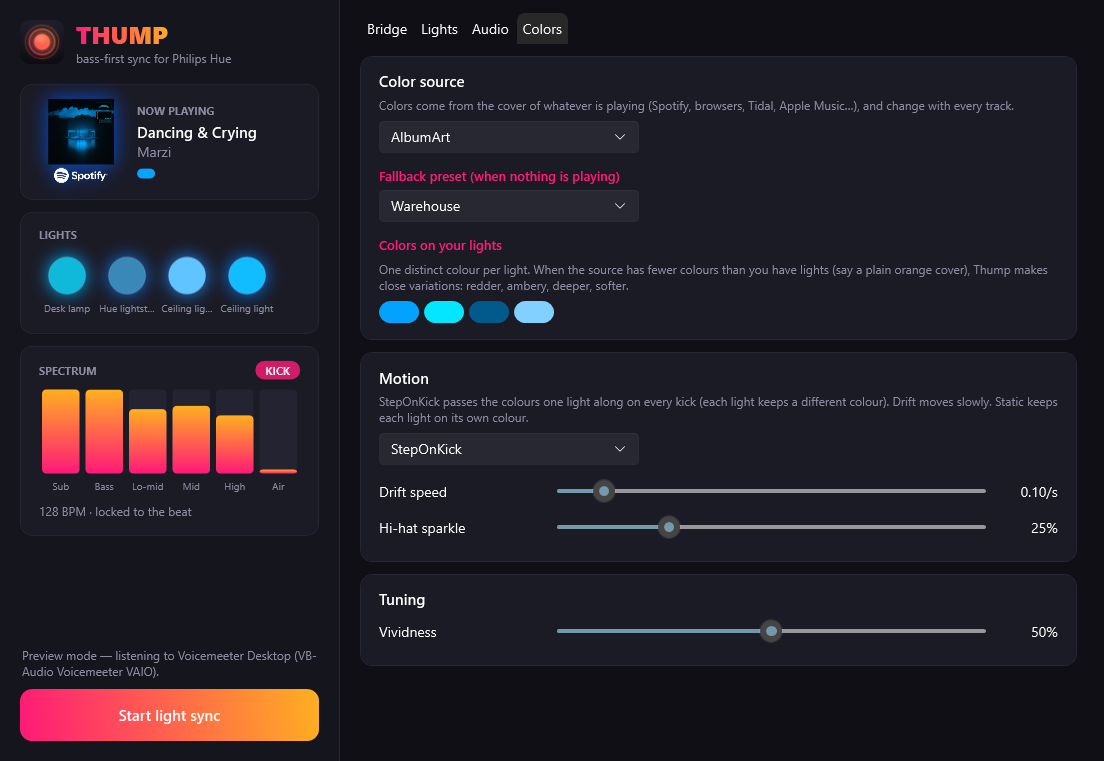
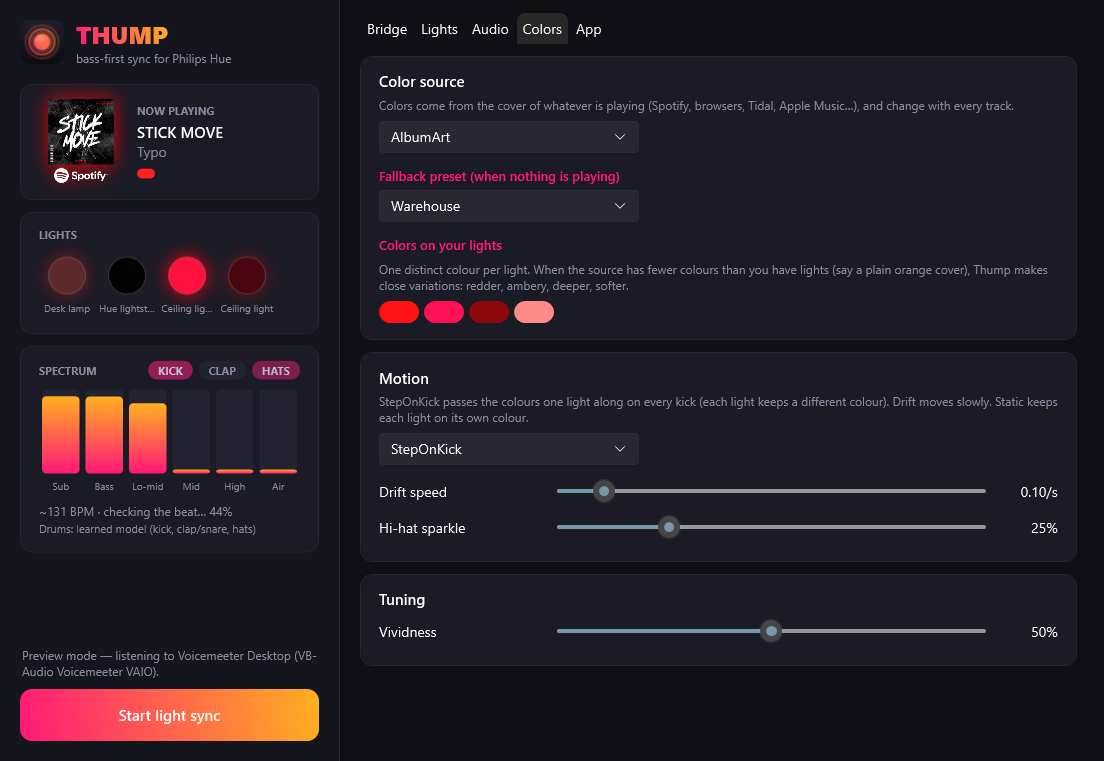
Show the remembered pairing on startup; UI and README screenshot for clap and hats
"2 · Pair" stayed blank after a restart even though the bridge was paired: only
the Pair button set it. Loading the areas at startup now says "Paired with <ip>",
or that the bridge isn't answering. The drum card mentions hats and ~50 ms, the
roles card lists Hats, and the README screenshot shows the KICK, CLAP and HATS LEDs.

diff --git a/src/Thump/MainWindow.xaml b/src/Thump/MainWindow.xaml
@@ -176,6 +176,7 @@
                                     <Run FontWeight="SemiBold" Foreground="White" Text="Bass"/> — sub + bass only, plus kick punch.<LineBreak/>
                                     <Run FontWeight="SemiBold" Foreground="White" Text="Kick"/> — flashes on detected kicks, dark in between.<LineBreak/>
                                     <Run FontWeight="SemiBold" Foreground="White" Text="Clap"/> — flashes on claps and snares, dark in between.<LineBreak/>
+                                    <Run FontWeight="SemiBold" Foreground="White" Text="Hats"/> — a gentle shimmer with the hi-hats over a steady base.<LineBreak/>
                                     <Run FontWeight="SemiBold" Foreground="White" Text="Mids / Highs"/> — synths &amp; vocals / hats &amp; cymbals.<LineBreak/>
                                     <Run FontWeight="SemiBold" Foreground="White" Text="Ambient"/> — steady colour, ignores the music.
                                 </TextBlock>
@@ -222,8 +223,8 @@
                         </Border>
                         <Border Style="{StaticResource Card}">
                             <StackPanel>
-                                <TextBlock Text="Kick, clap and snare" Style="{StaticResource CardTitle}"/>
-                                <TextBlock Style="{StaticResource Hint}" Text="A small learned model, trained on hundreds of songs, picks out kicks, claps or snares, and hi-hats as they play, about 30 ms after each hit. The surer it is, the brighter the flash; when it is unsure, the light stays dark. Sensitivity moves how sure it has to be."/>
+                                <TextBlock Text="Kick, clap and hats" Style="{StaticResource CardTitle}"/>
+                                <TextBlock Style="{StaticResource Hint}" Text="A small learned model, trained on hundreds of songs, picks out kicks, claps or snares, and hi-hats as they play, about 50 ms after each hit. It hears the last few seconds, so it knows the groove as well as the sound. The surer it is, the brighter the flash; when it is unsure, the light stays dark. Sensitivity moves how sure it has to be."/>
                                 <local:LabeledSlider Label="Kick punch" Value="{Binding KickPunch}" Minimum="0" Maximum="1.5" Format="0%" Tip="Extra flash added to Mix and Bass lights on each kick."/>
                                 <local:LabeledSlider Label="Kick sensitivity" Value="{Binding KickSensitivity}" Minimum="0.3" Maximum="2.5" Format="0.00" Tip="Raise if kicks are missed, lower if bass notes trigger it."/>
                                 <local:LabeledSlider Label="Kick decay" Value="{Binding KickDecayMs}" Minimum="40" Maximum="600" Format="0 ms" Tip="Length of each kick flash."/>

diff --git a/src/Thump/MainWindow.xaml.cs b/src/Thump/MainWindow.xaml.cs
@@ -361,13 +361,19 @@ public partial class MainWindow : Window
             var areas = await client.GetEntertainmentAreasAsync();
             AreaBox.ItemsSource = areas;
             AreaBox.SelectedItem = areas.FirstOrDefault(a => a.Id == _settings.AreaId) ?? areas.FirstOrDefault();
-            if (areas.Count == 0 && !quiet)
-                PairStatus.Text = "No entertainment areas yet — create one in the Hue app.";
+            // Also on startup: the pairing is remembered, so say so (only Pair used to set this).
+            PairStatus.Text = areas.Count == 0 && !quiet
+                ? "No entertainment areas yet — create one in the Hue app."
+                : $"Paired with {_settings.BridgeIp} ✓";
         }
         catch (Exception ex)
         {
             if (!quiet) PairStatus.Text = $"Couldn't load areas: {ex.Message}";
-            else StatusText.Text = $"Bridge unreachable ({ex.Message}) — preview mode.";
+            else
+            {
+                PairStatus.Text = $"Paired with {_settings.BridgeIp}, but it isn't answering right now.";
+                StatusText.Text = $"Bridge unreachable ({ex.Message}) — preview mode.";
+            }
         }
     }
 

diff --git a/README.md b/README.md
@@ -4,7 +4,7 @@
 
 <p align="center"><b>Bass-first music and screen sync for Philips Hue, for Windows 10/11.</b></p>
 
-<p align="center"><img src="docs/screenshot-colors.png" width="820" alt="Thump: album-art colours spread across four lights, live spectrum and kick indicator"></p>
+<p align="center"><img src="docs/screenshot-colors.png" width="820" alt="Thump: album-art colours spread across four lights, live spectrum and the KICK, CLAP and HATS indicators"></p>
 
 Hue Sync's music mode is tuned for "average" music: it blends the whole spectrum into one loudness value. That's
 fine for pop, but on techno and house the lights end up following hats and synths instead of the thing you actually
